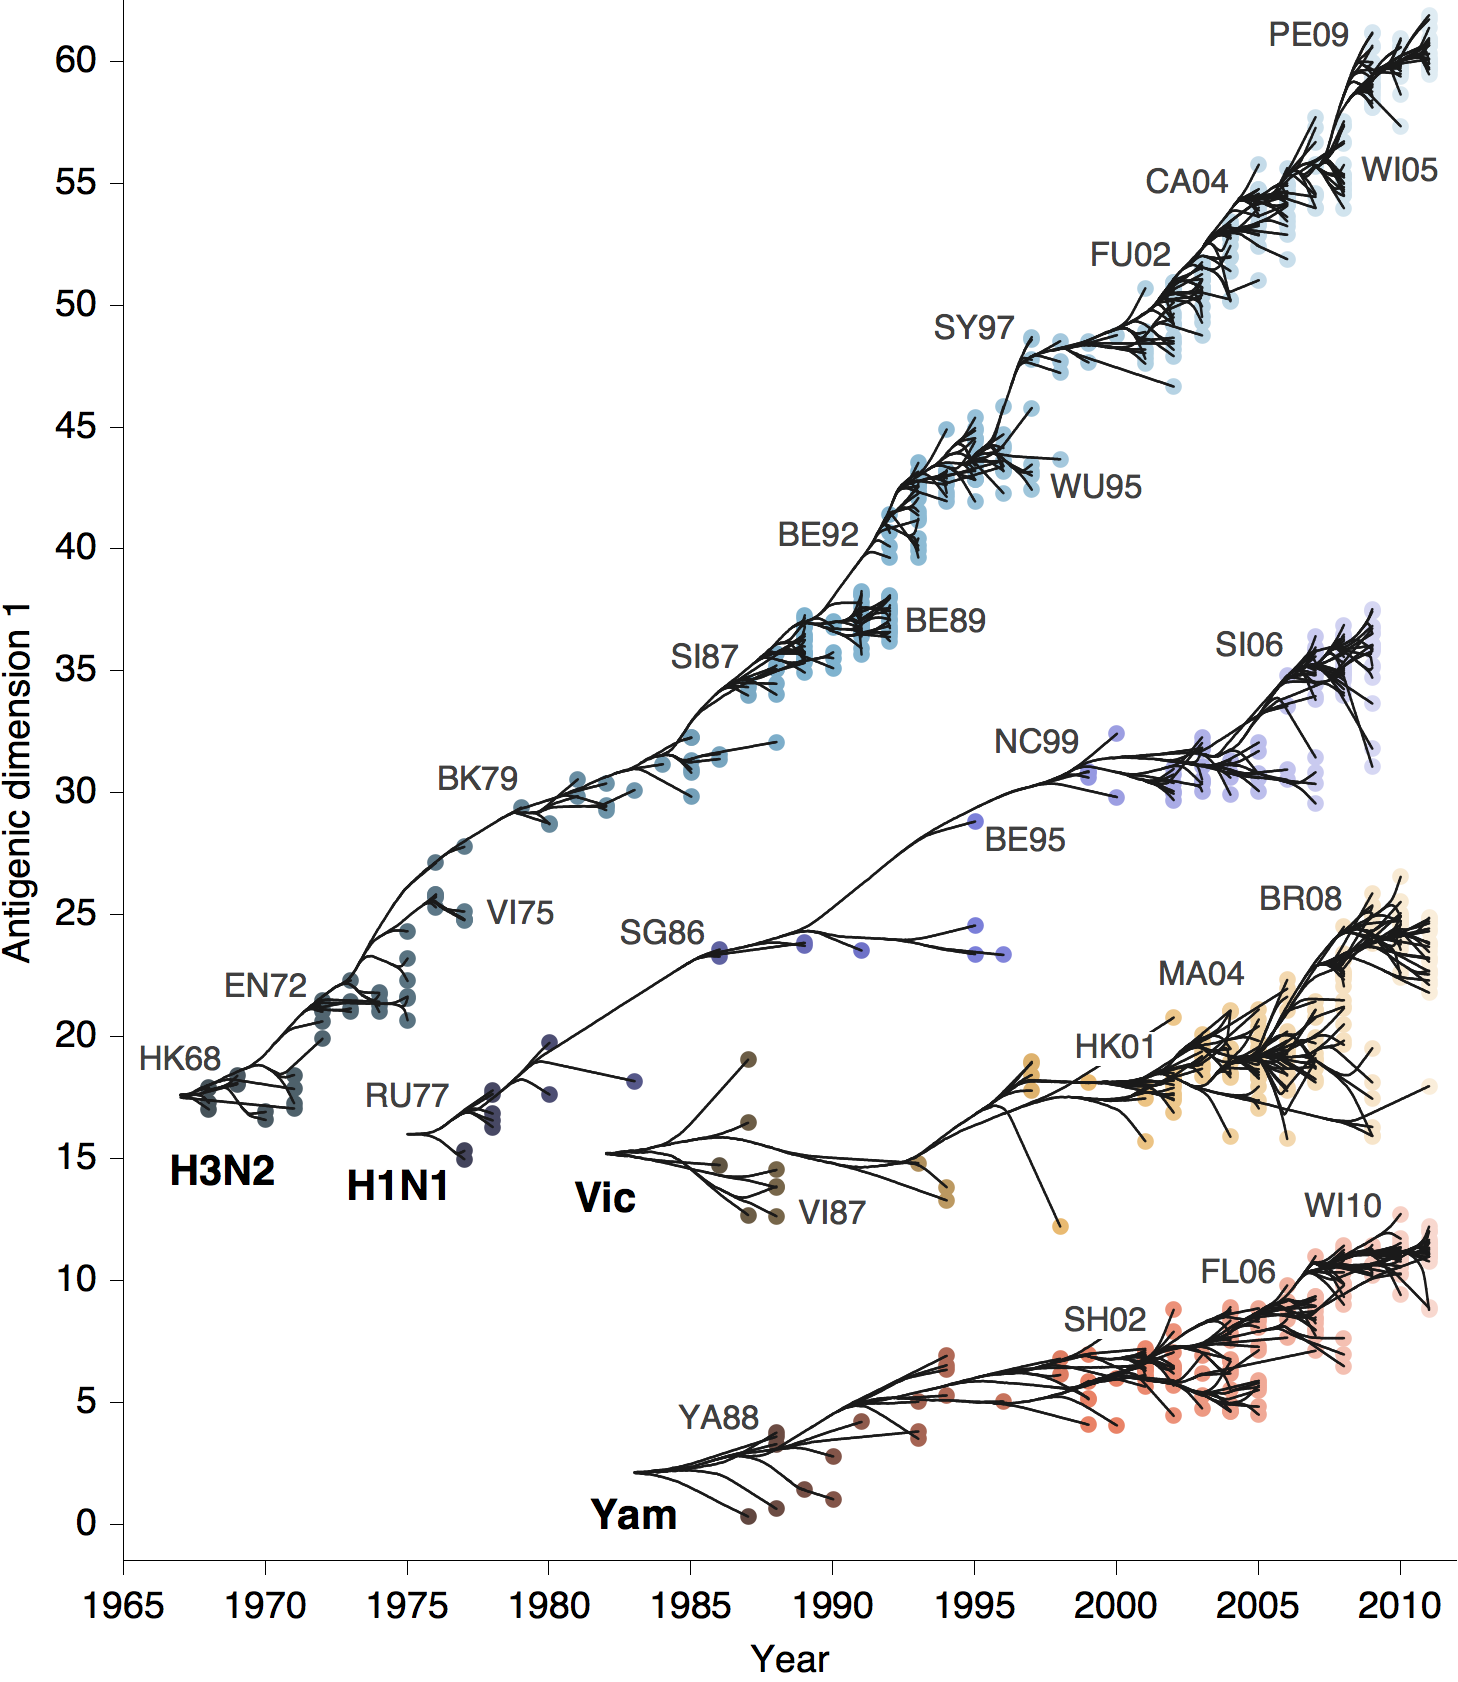
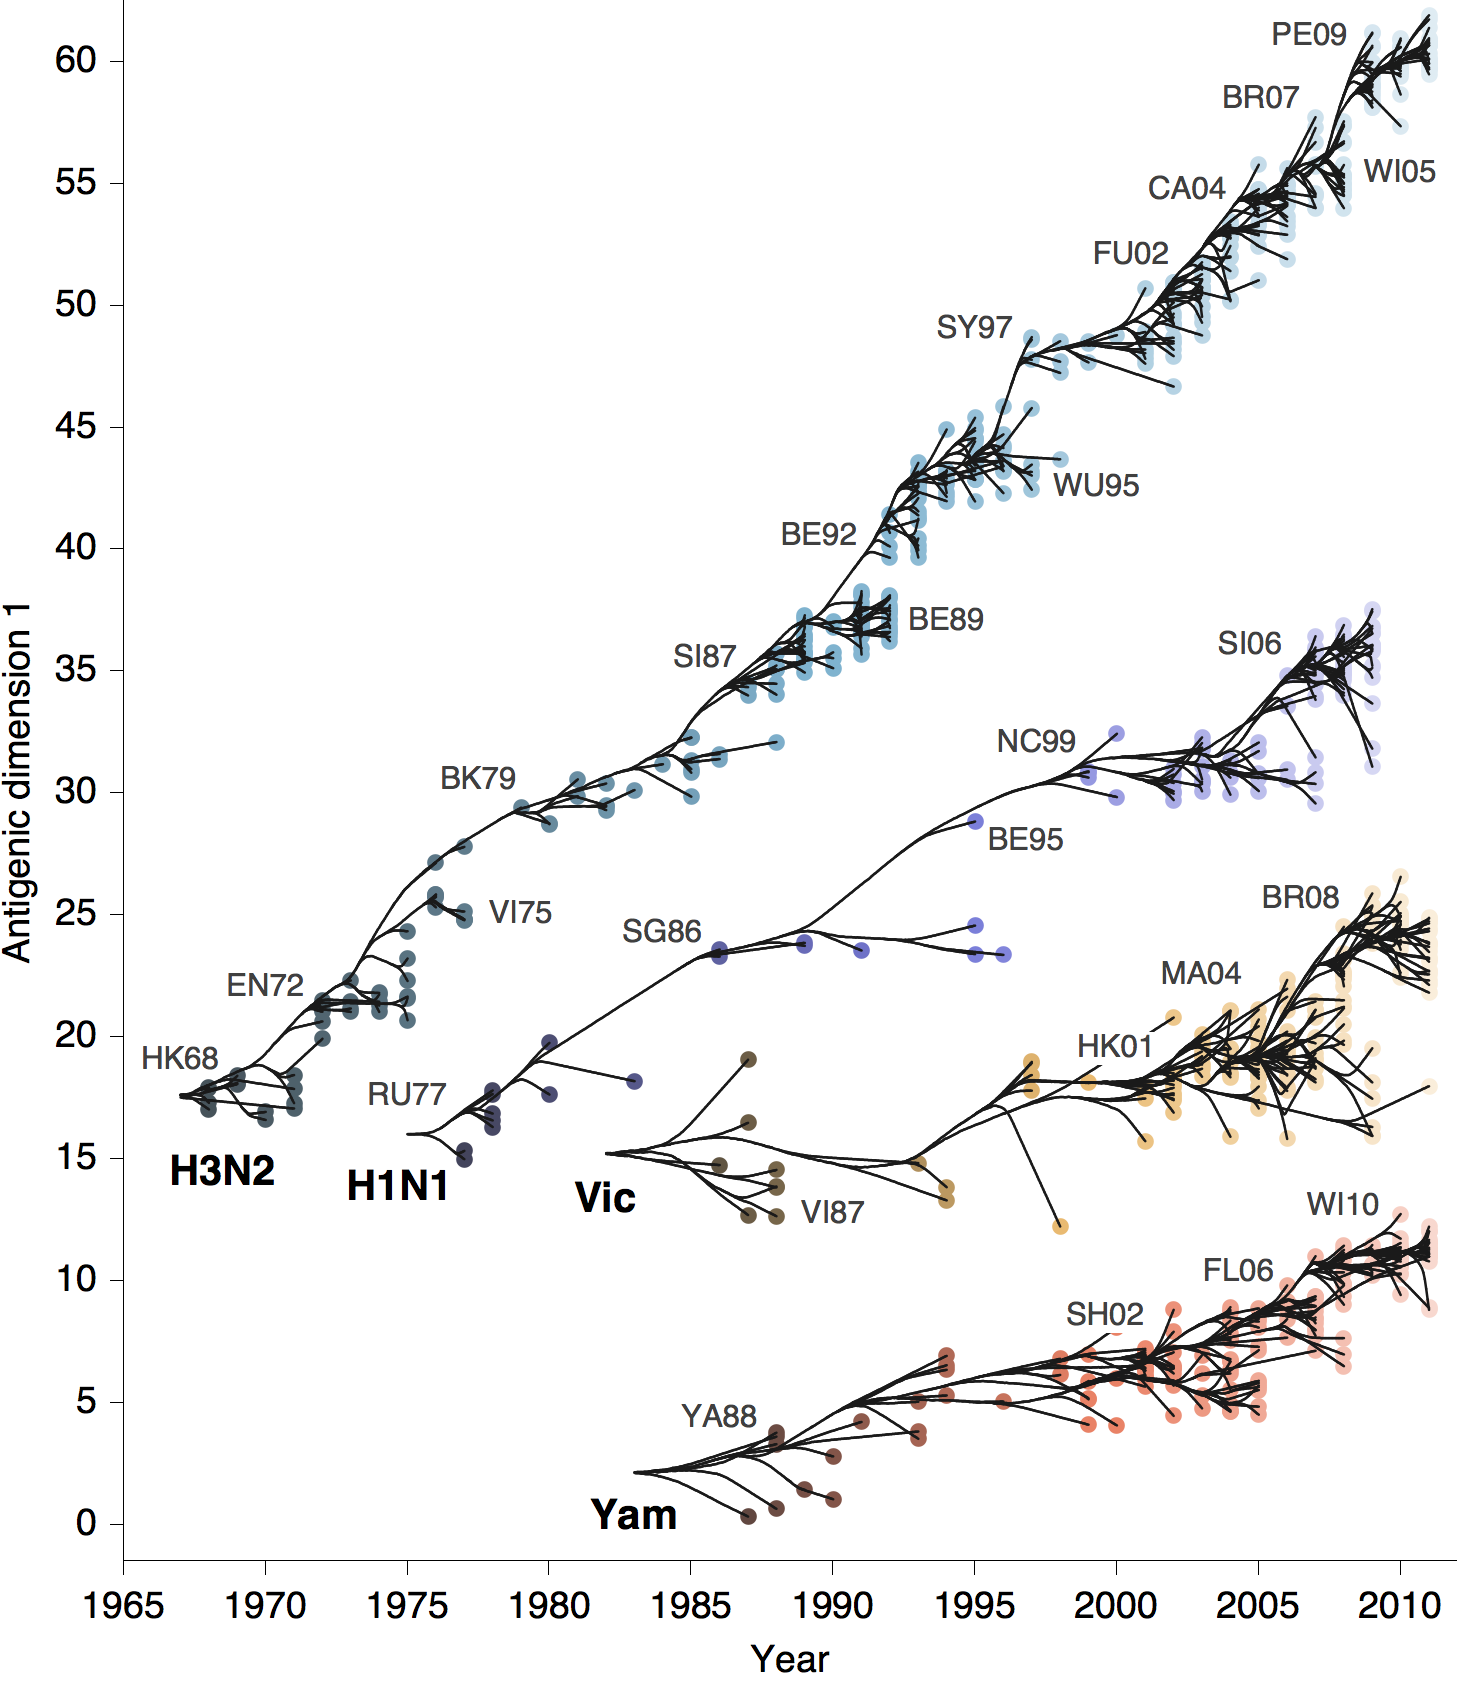
Include H3 Brisbane/07 in map and drift figures.

diff --git a/flux.tex b/flux.tex
@@ -239,7 +239,7 @@ Labeling of prominent antigenic clusters in figures \ref{map} and \ref{drift} is
 	Antigenic units represent two-fold dilutions of the HI assay.
 	Absolute positioning of lineages, e.g.\ A/H3N2 and A/H1N1, is arbitrary.
 	Lines represent mean posterior diffusion paths when virus locations are fixed.
-	Prominent antigenic clusters are labeled after vaccine strains present within clusters, and are abbreviated from Hong Kong/68, England/72, Victoria/75, Bangkok/79, Sichuan/87, Beijing/89, Beijing/92, Wuhan/95, Sydney/97, Fujian/02, California/04, Wisconsin/05, Perth/09 (A/H3N2), USSR/77, Singapore/86, Beijing/95, New Caledonia/99, Solomon Islands/06 (H1N1), Victoria/87, Hong Kong/01, Malaysia/04, Brisbane/08 (Vic), Yamagata/88, Shanghai/02, Florida/06, Wisconsin/10 (Yam).} 
+	Prominent antigenic clusters are labeled after vaccine strains present within clusters, and are abbreviated from Hong Kong/68, England/72, Victoria/75, Bangkok/79, Sichuan/87, Beijing/89, Beijing/92, Wuhan/95, Sydney/97, Fujian/02, California/04, Wisconsin/05, Brisbane/07, Perth/09 (A/H3N2), USSR/77, Singapore/86, Beijing/95, New Caledonia/99, Solomon Islands/06 (H1N1), Victoria/87, Hong Kong/01, Malaysia/04, Brisbane/08 (Vic), Yamagata/88, Shanghai/02, Florida/06, Wisconsin/10 (Yam).} 
 	\label{map} 
 \end{figure}
 
@@ -262,7 +262,7 @@ Most variation is contained within the first antigenic dimension, but dimension 
 	Antigenic units represent two-fold dilutions of the HI assay.
 	Relative positioning of lineages, e.g.\ A/H3N2 and A/H1N1, in the vertical axis is arbitrary.
 	Lines represent mean posterior diffusion paths when virus locations are fixed.
-	Prominent antigenic clusters are labeled after vaccine strains present within clusters, and are abbreviated from Hong Kong/68, England/72, Victoria/75, Bangkok/79, Sichuan/87, Beijing/89, Beijing/92, Wuhan/95, Sydney/97, Fujian/02, California/04, Wisconsin/05, Perth/09 (A/H3N2), USSR/77, Singapore/86, Beijing/95, New Caledonia/99, Solomon Islands/06 (H1N1), Victoria/87, Hong Kong/01, Malaysia/04, Brisbane/08 (Vic), Yamagata/88, Shanghai/02, Florida/06, Wisconsin/10 (Yam).} 
+	Prominent antigenic clusters are labeled after vaccine strains present within clusters, and are abbreviated from Hong Kong/68, England/72, Victoria/75, Bangkok/79, Sichuan/87, Beijing/89, Beijing/92, Wuhan/95, Sydney/97, Fujian/02, California/04, Wisconsin/05, Brisbane/07, Perth/09 (A/H3N2), USSR/77, Singapore/86, Beijing/95, New Caledonia/99, Solomon Islands/06 (H1N1), Victoria/87, Hong Kong/01, Malaysia/04, Brisbane/08 (Vic), Yamagata/88, Shanghai/02, Florida/06, Wisconsin/10 (Yam).} 
 	\label{drift} 
 \end{figure}
 
